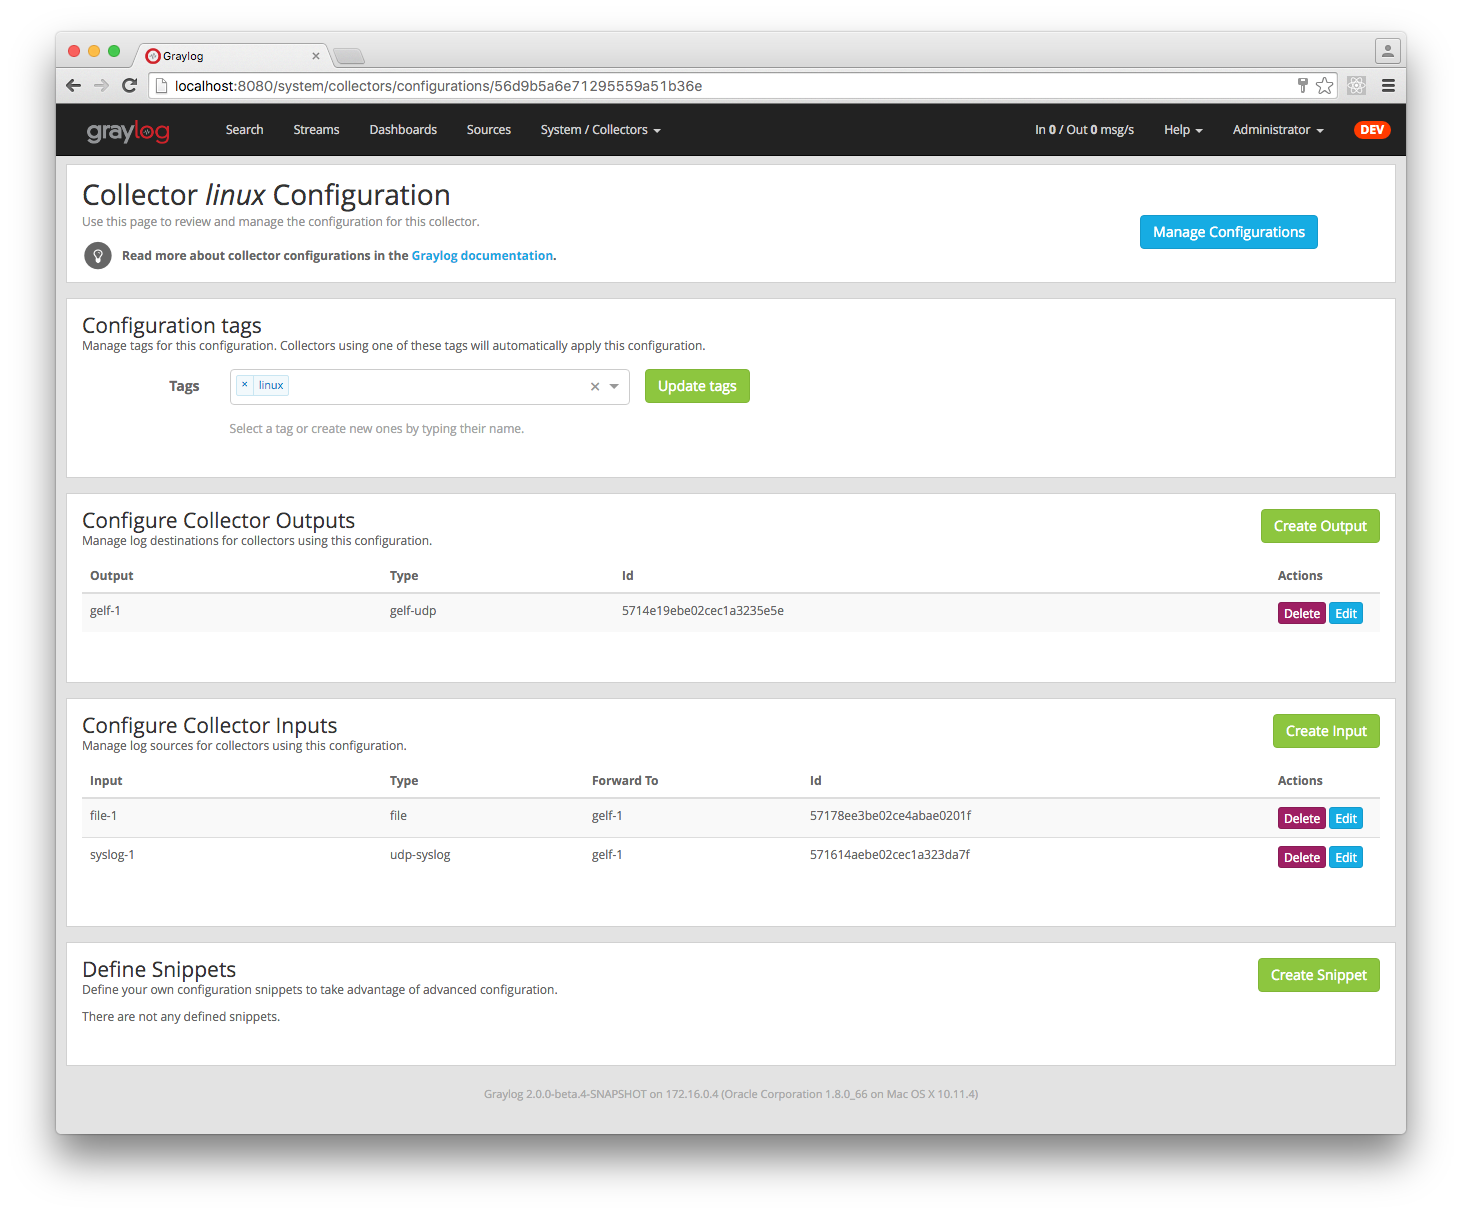
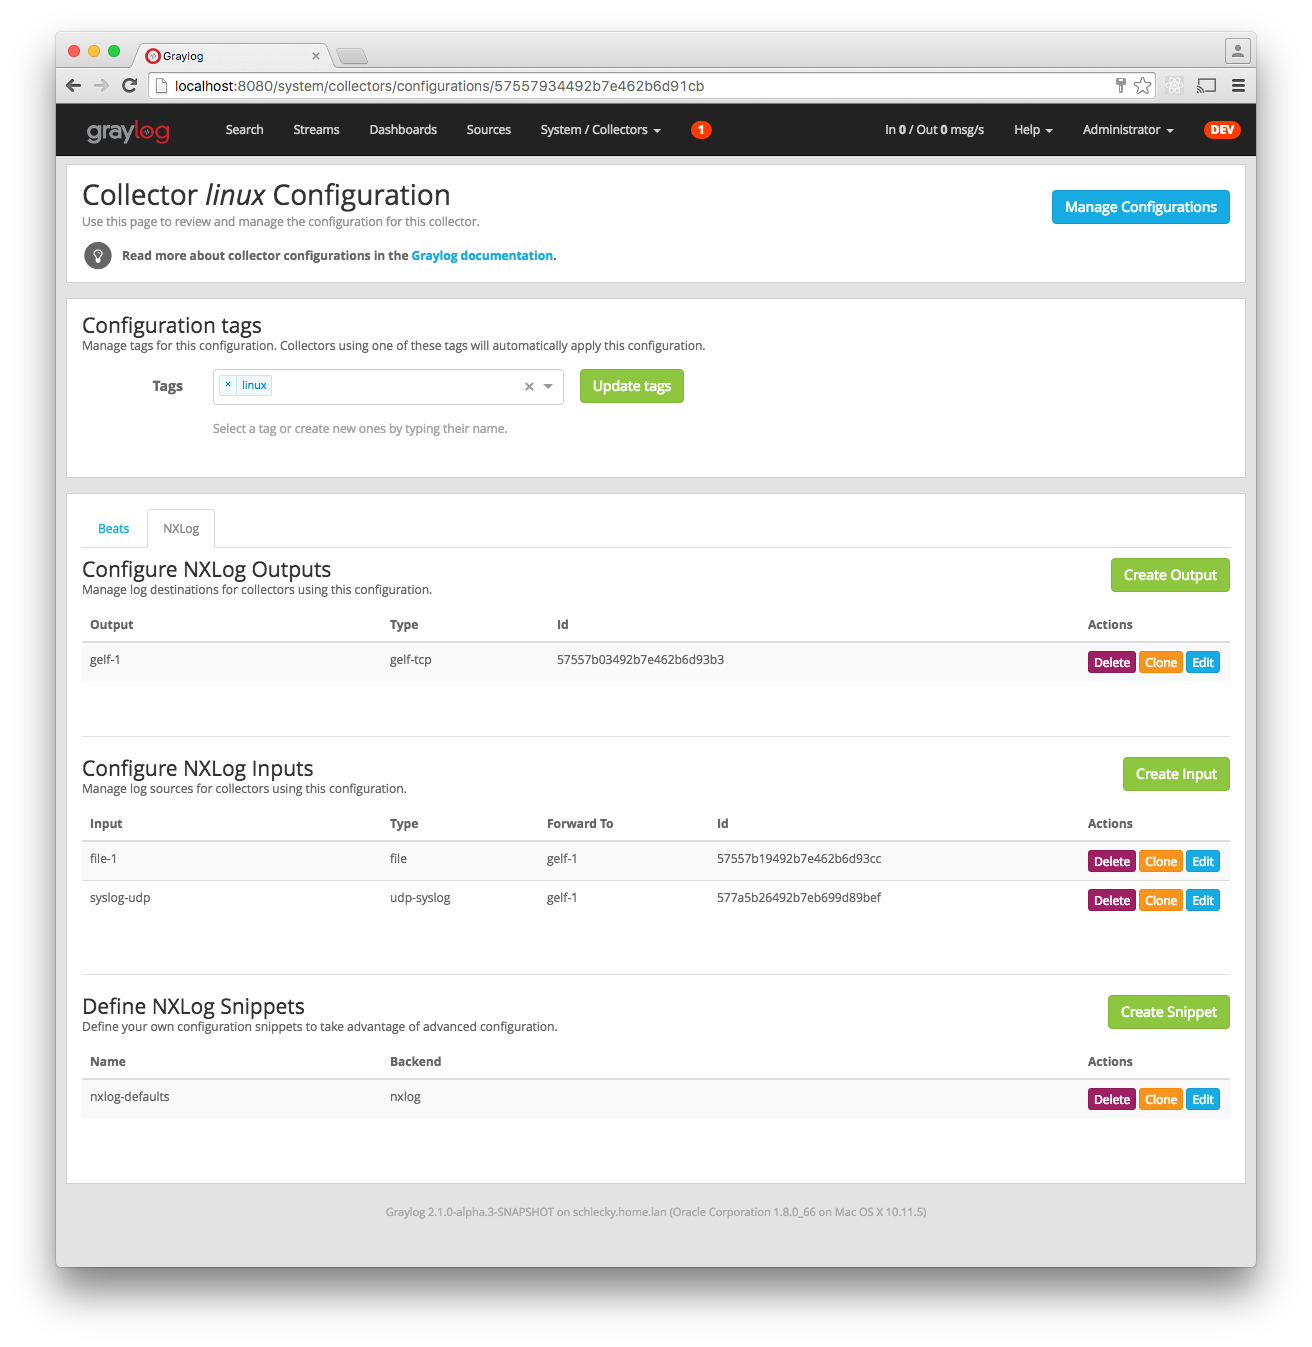
explain the nxlog default snippet

diff --git a/pages/collector_sidecar.rst b/pages/collector_sidecar.rst
@@ -124,6 +124,10 @@ Each configuration can hold parts for multiple collector backends.
 So you can create one configuration with the tag ``linux`` and this include e.g. an input section for a NXlog collector and one for a Filebeat collector.
 The Sidecar will then pick the right parts based on the backends that are enabled for the host system.
 
+For some collectors (currently NXlog) we provide a default snippet. This snippet is created by default for every new configuration and contains settings like module paths or
+other system-wide configurations. This snippet is not meant as an example it's actually needed to generate a working configuration. However it's a normal snippet that
+can be edited or deleted.
+
 .. image:: /images/sidecar_configuration.png
 
 
